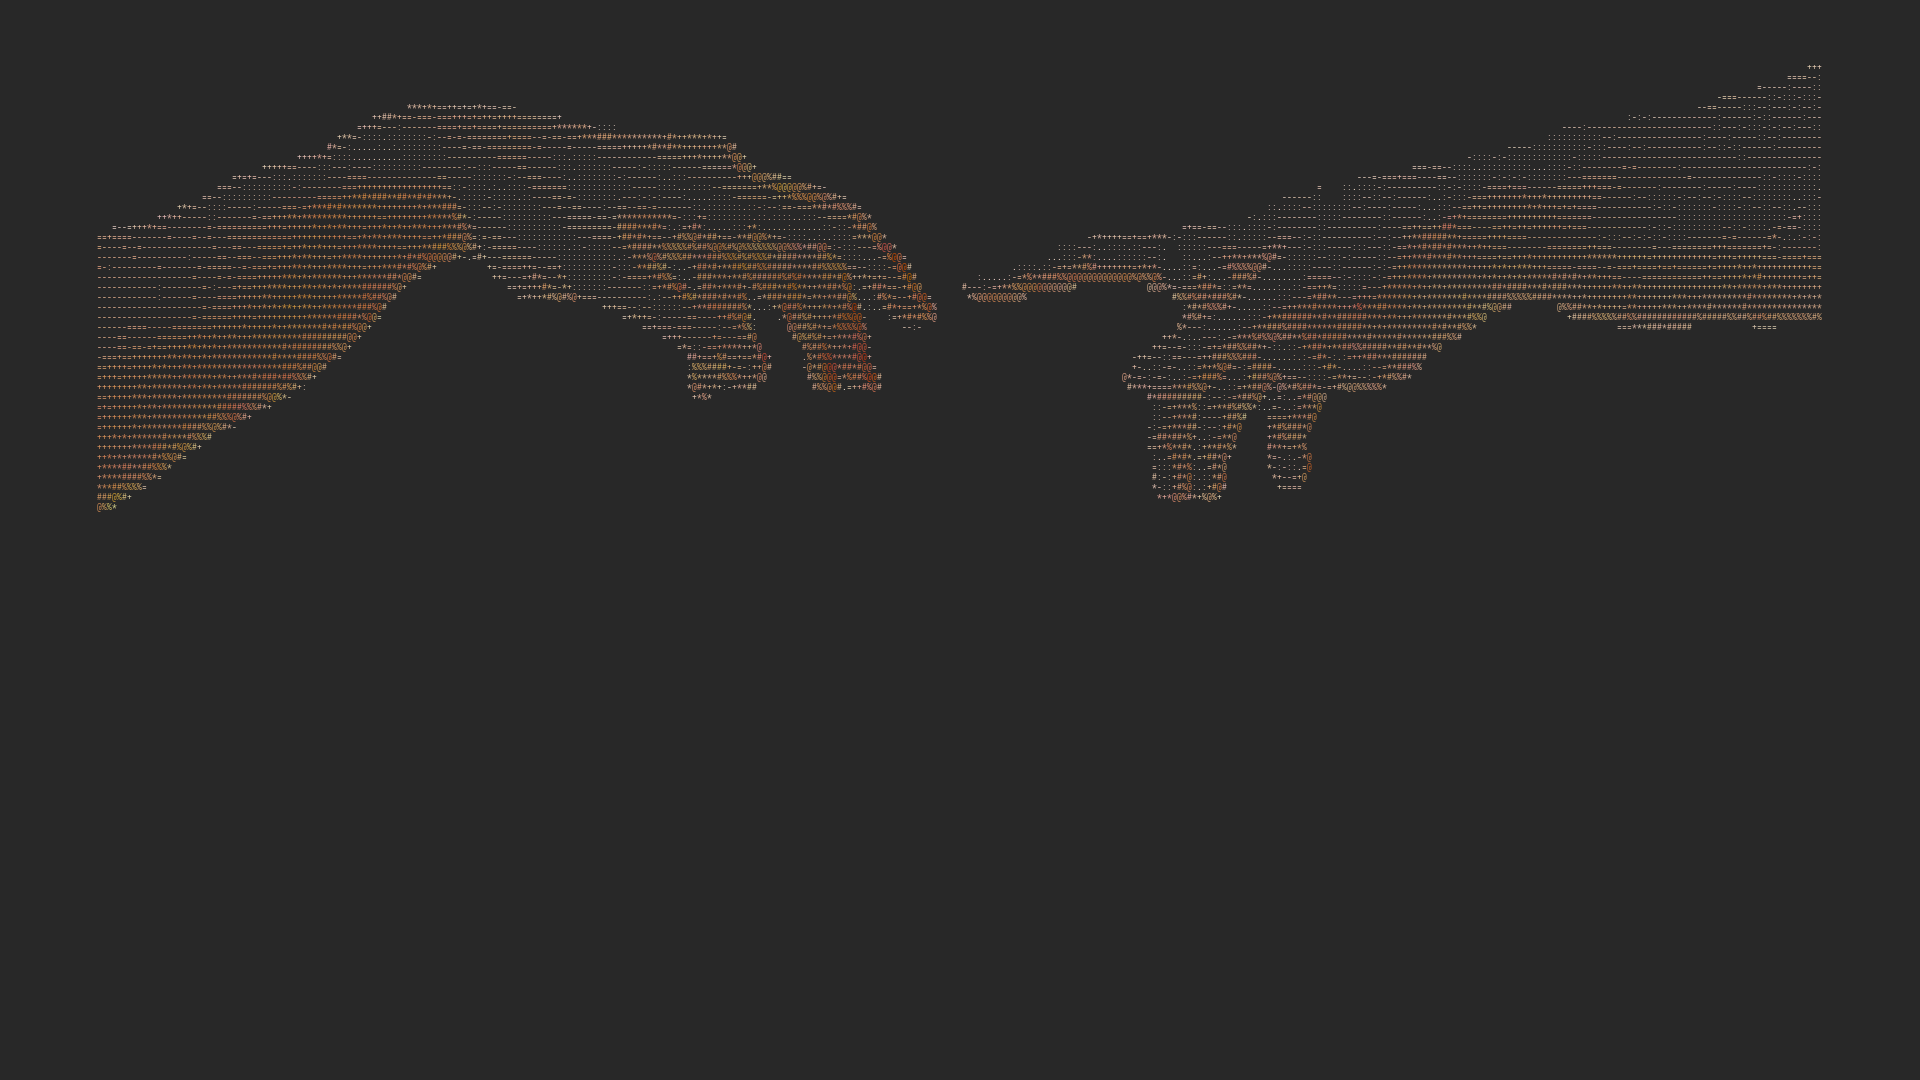
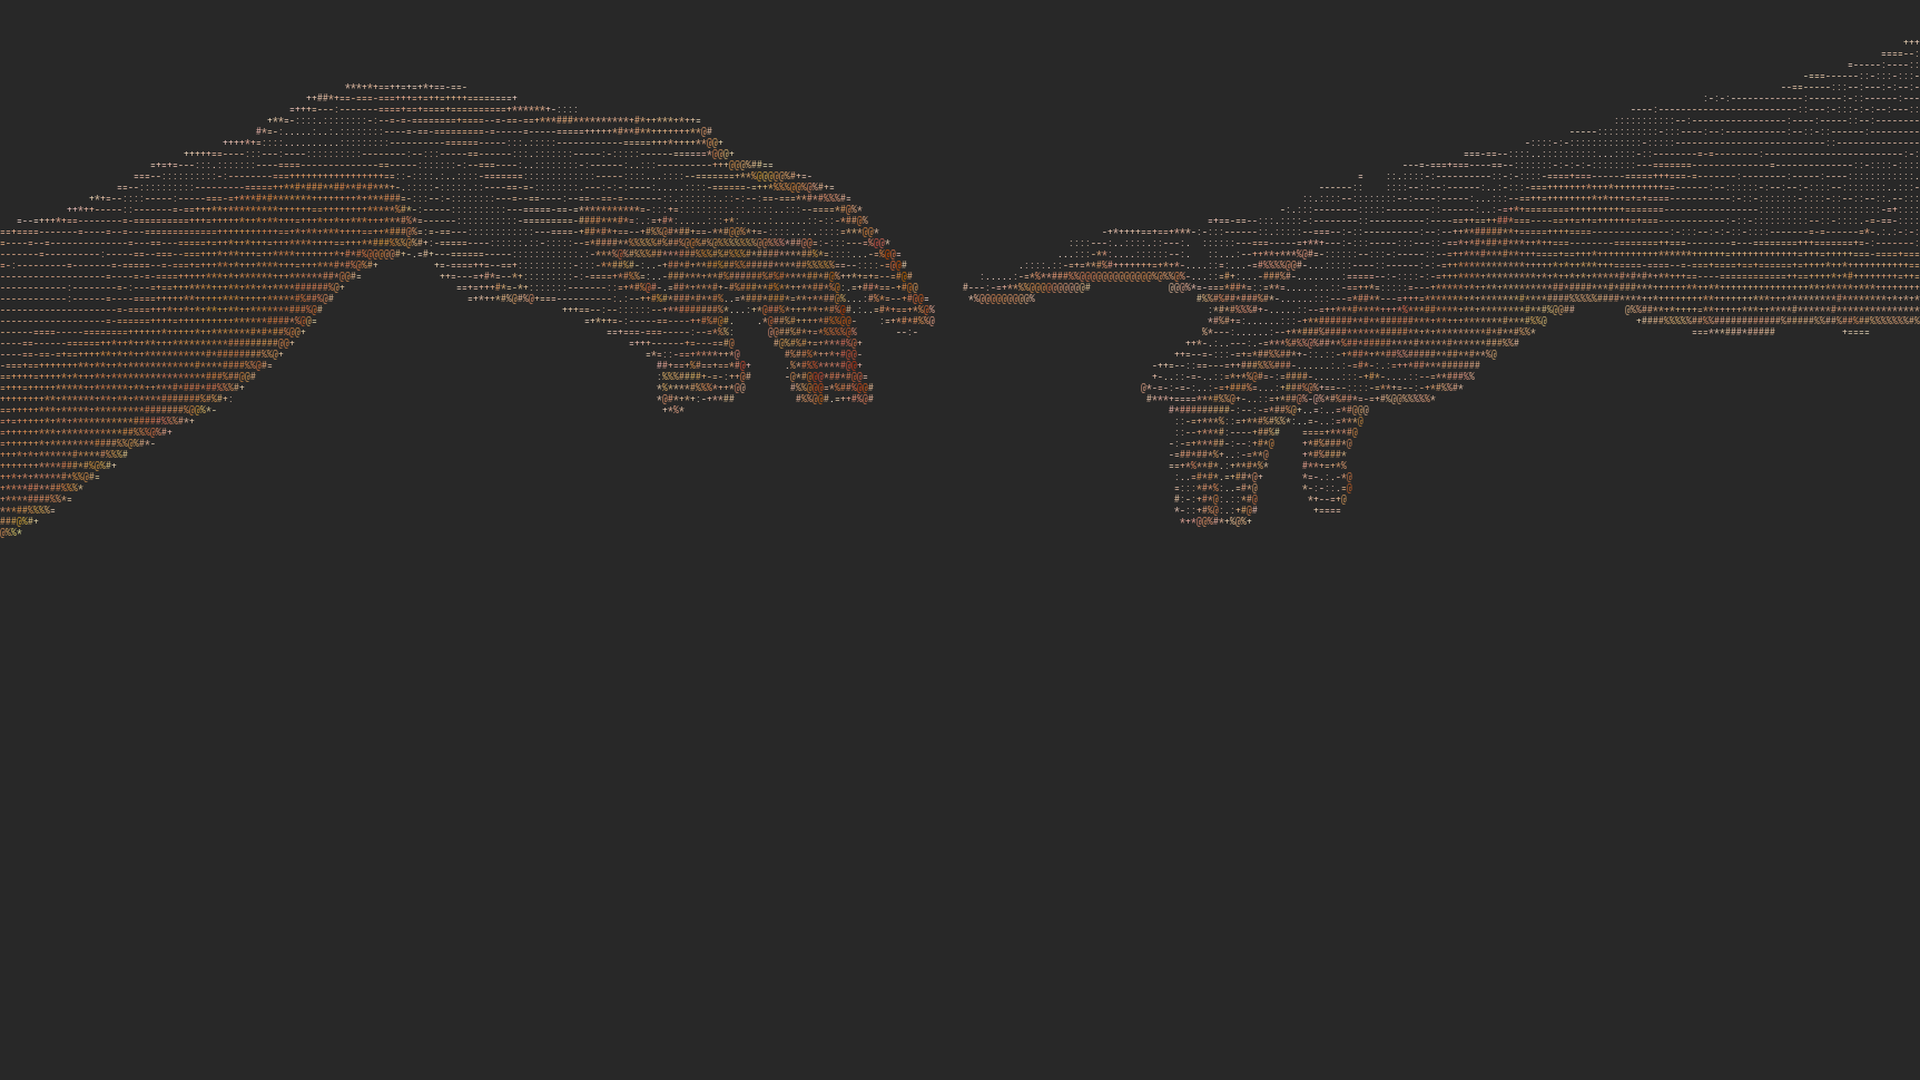
fondos: figura centrada y de borde a borde
Las manos quedaban corridas a la izquierda y no llegaban a los lados.
El generador centraba la grilla completa con el ancho del glifo en vez
del avance real del carácter; ahora centra según la figura y por defecto
la extiende de borde a borde.

Claude-Session: https://claude.ai/code/session_01MJTGBacGDSLjhmhSVS6ei9

Changed region(s): [[0.0, 0.0611, 1.0, 0.4889], [0.9688, 0.0306, 1.0, 0.0611]]

diff --git a/tools/ascii-wallpaper.py b/tools/ascii-wallpaper.py
@@ -35,12 +35,12 @@ def main():
     ap.add_argument("--center-y", type=float, default=0.5, help="centro vertical de la figura (0-1)")
     ap.add_argument("--colorize", action="store_true", help="colorea cada carácter con el tono original de la pintura")
     ap.add_argument("--threshold", type=int, default=16)
-    ap.add_argument("--scale", type=float, default=0.86, help="ancho de la figura respecto a la pantalla")
+    ap.add_argument("--scale", type=float, default=1.0, help="ancho de la figura respecto a la pantalla (1.0 = de borde a borde)")
     args = ap.parse_args()
 
     W, H = map(int, args.size.split("x"))
     font = ImageFont.truetype(FONT, args.font_size)
-    cw = font.getbbox("M")[2]
+    cw = font.getlength("M")  # avance real del carácter (no el ancho del glifo)
     ch = int(args.font_size * 1.32)
 
     img = Image.open(args.src).convert("RGB")
@@ -81,7 +81,9 @@ def main():
 
     canvas = Image.new("RGB", (W, H), hex_rgb(args.bg))
     draw = ImageDraw.Draw(canvas)
-    ox = (W - cols * cw) // 2
+    # Centrar según las columnas que realmente tienen figura, no la grilla entera
+    usadas = [x for x in range(cols) if any(mp[x, y] >= 100 for y in range(rows))] or [0, cols - 1]
+    ox = (W - (usadas[-1] - usadas[0] + 1) * cw) / 2 - usadas[0] * cw
     oy = int(H * args.center_y - rows * ch / 2)
     fg = hex_rgb(args.fg)
     n = len(RAMP) - 1
